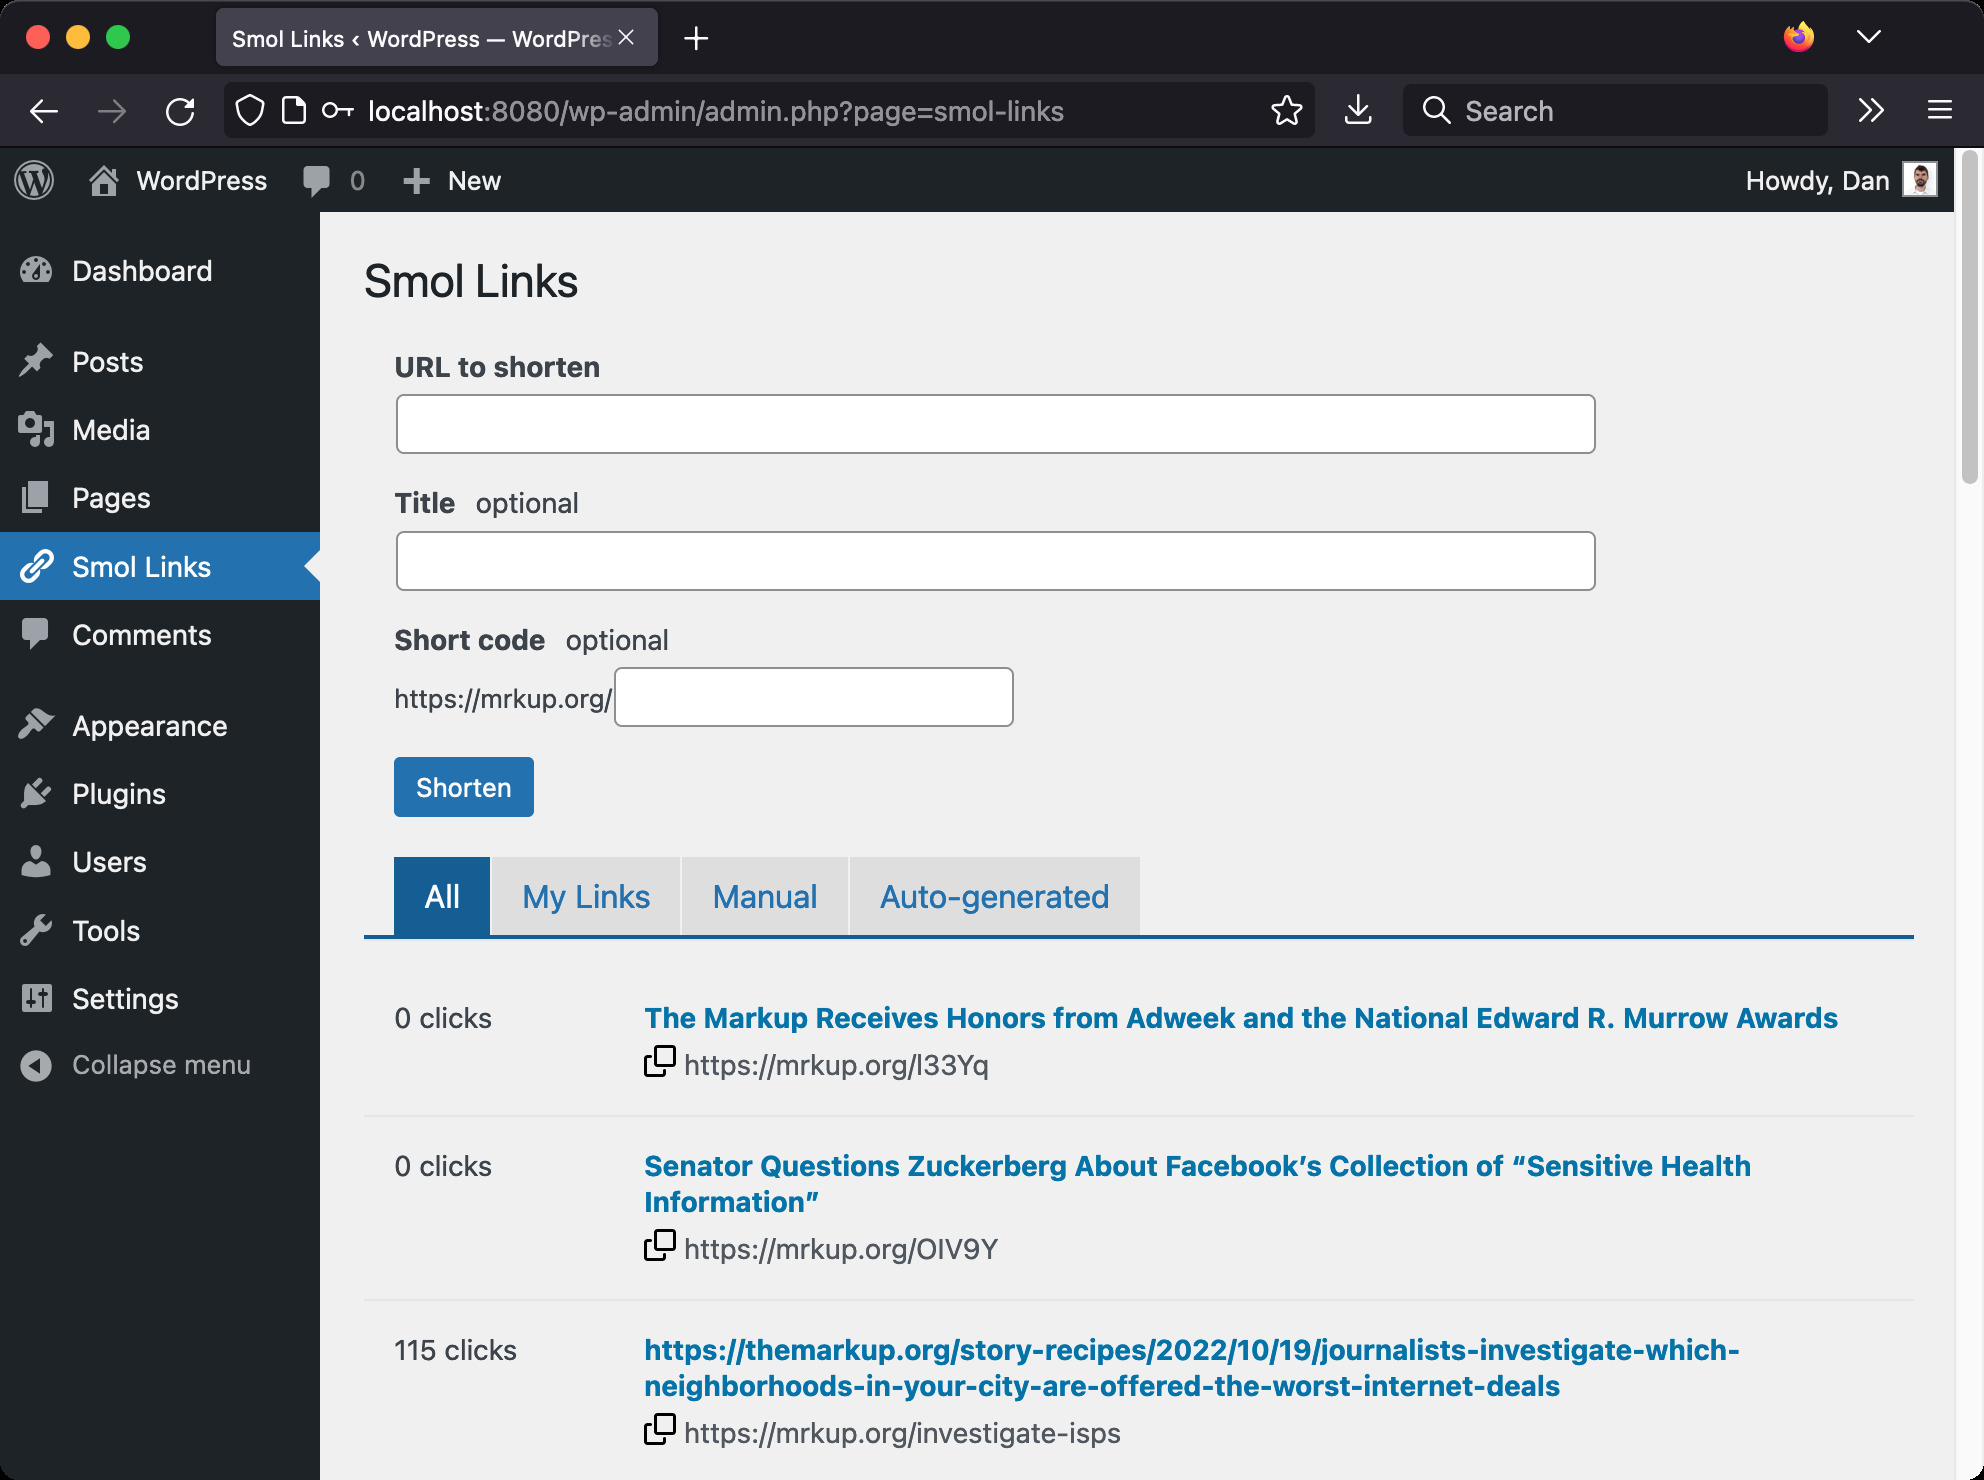
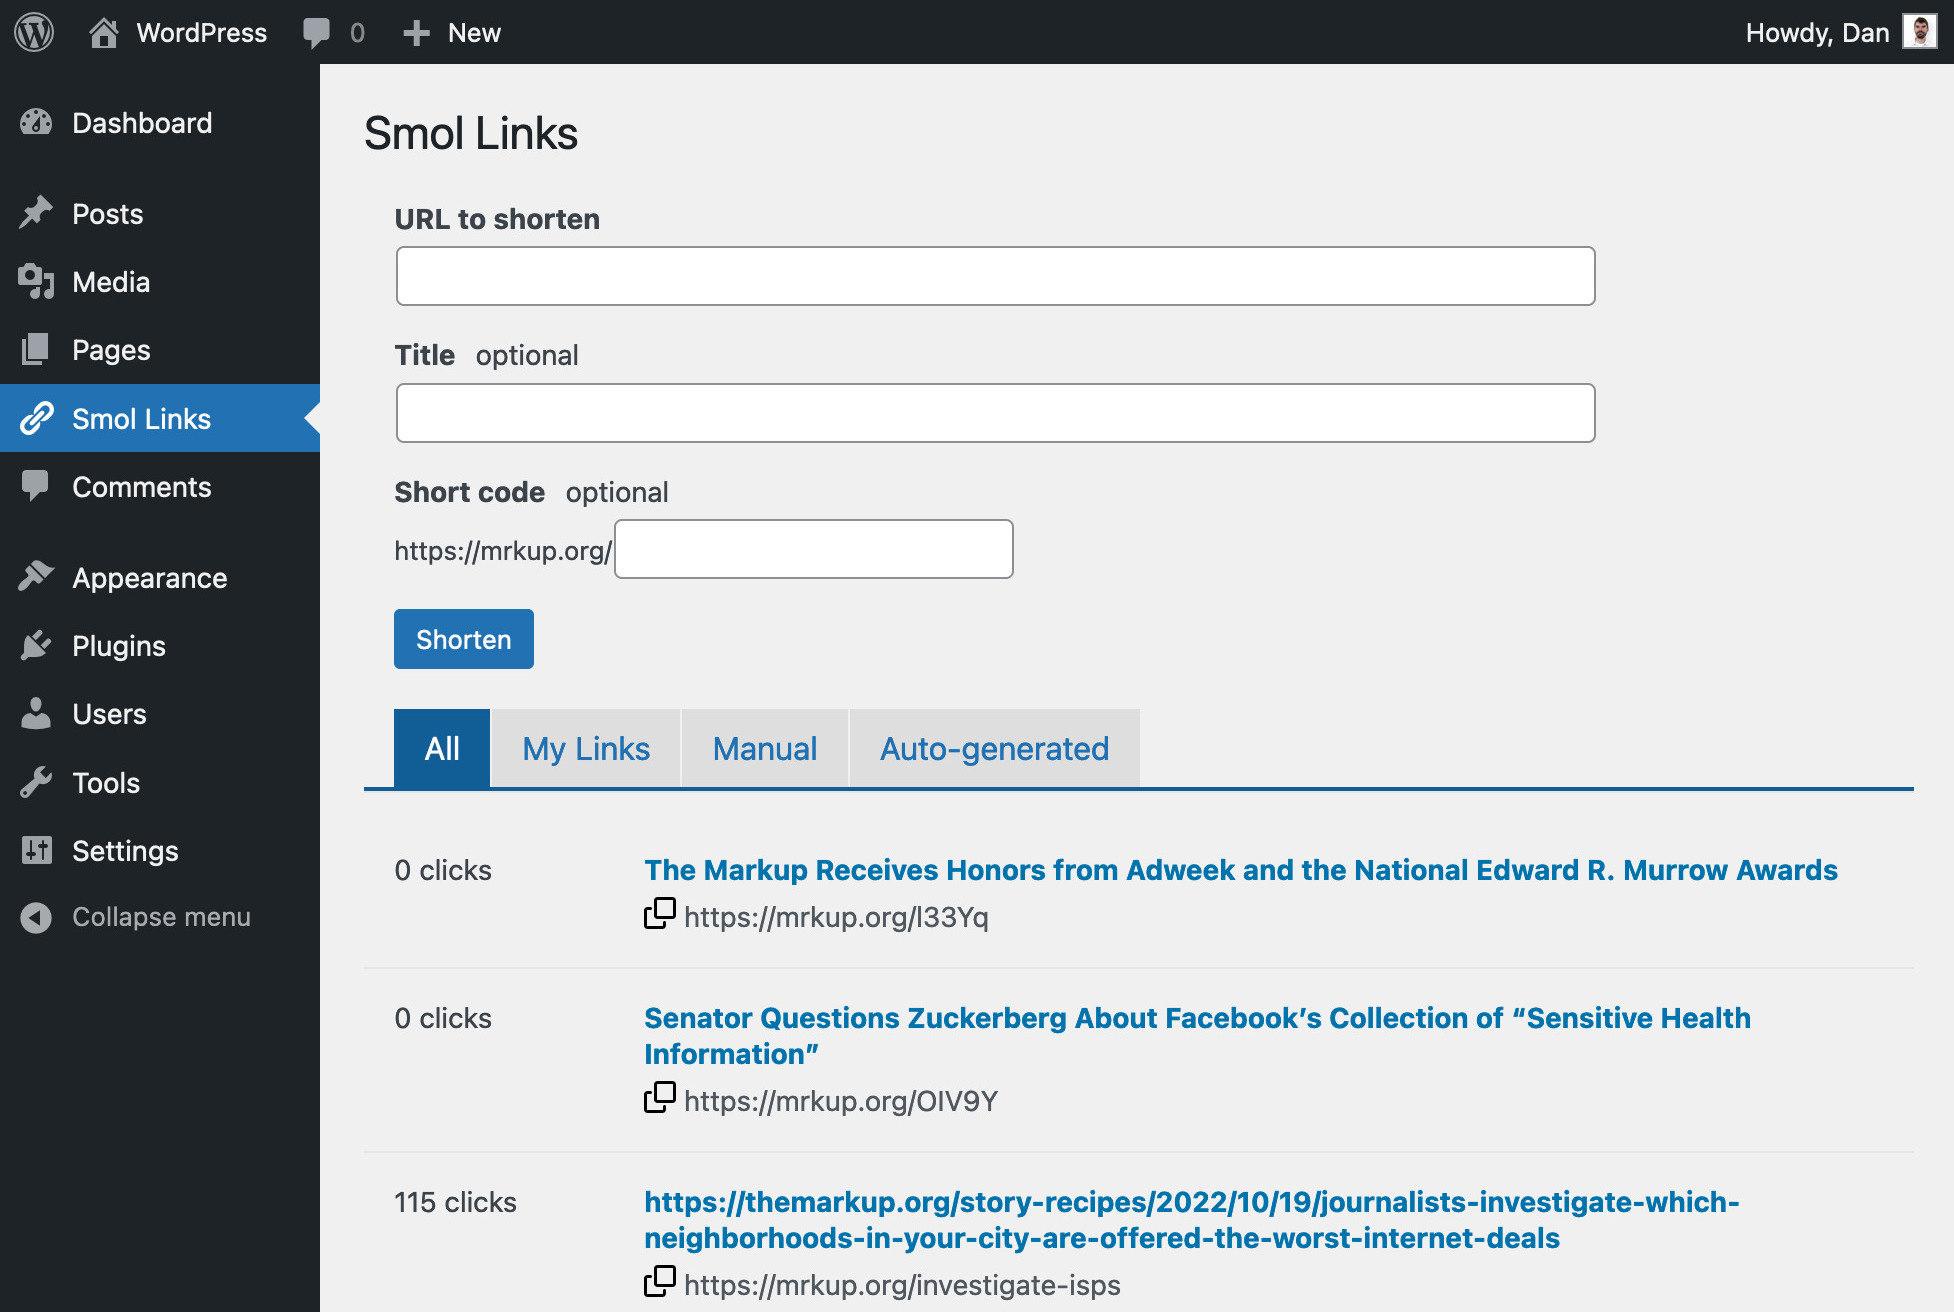
Fixed Smol Links image

diff --git a/CHANGELOG.md b/CHANGELOG.md
@@ -4,6 +4,23 @@ All notable changes to this project will be documented in this file.
 
 The format is based on [Keep a Changelog](https://keepachangelog.com), and this project adheres to [Semantic Versioning](https://semver.org).
 
+## [6.38.2] - 2022-10-27
+### Added
+* *Nothing*
+
+### Changed
+* *Nothing*
+
+### Deprecated
+* *Nothing*
+
+### Removed
+* *Nothing*
+
+### Fixed
+* Fixed Smol Links image.
+
+
 ## [6.38.1] - 2022-10-27
 ### Added
 * *Nothing*
